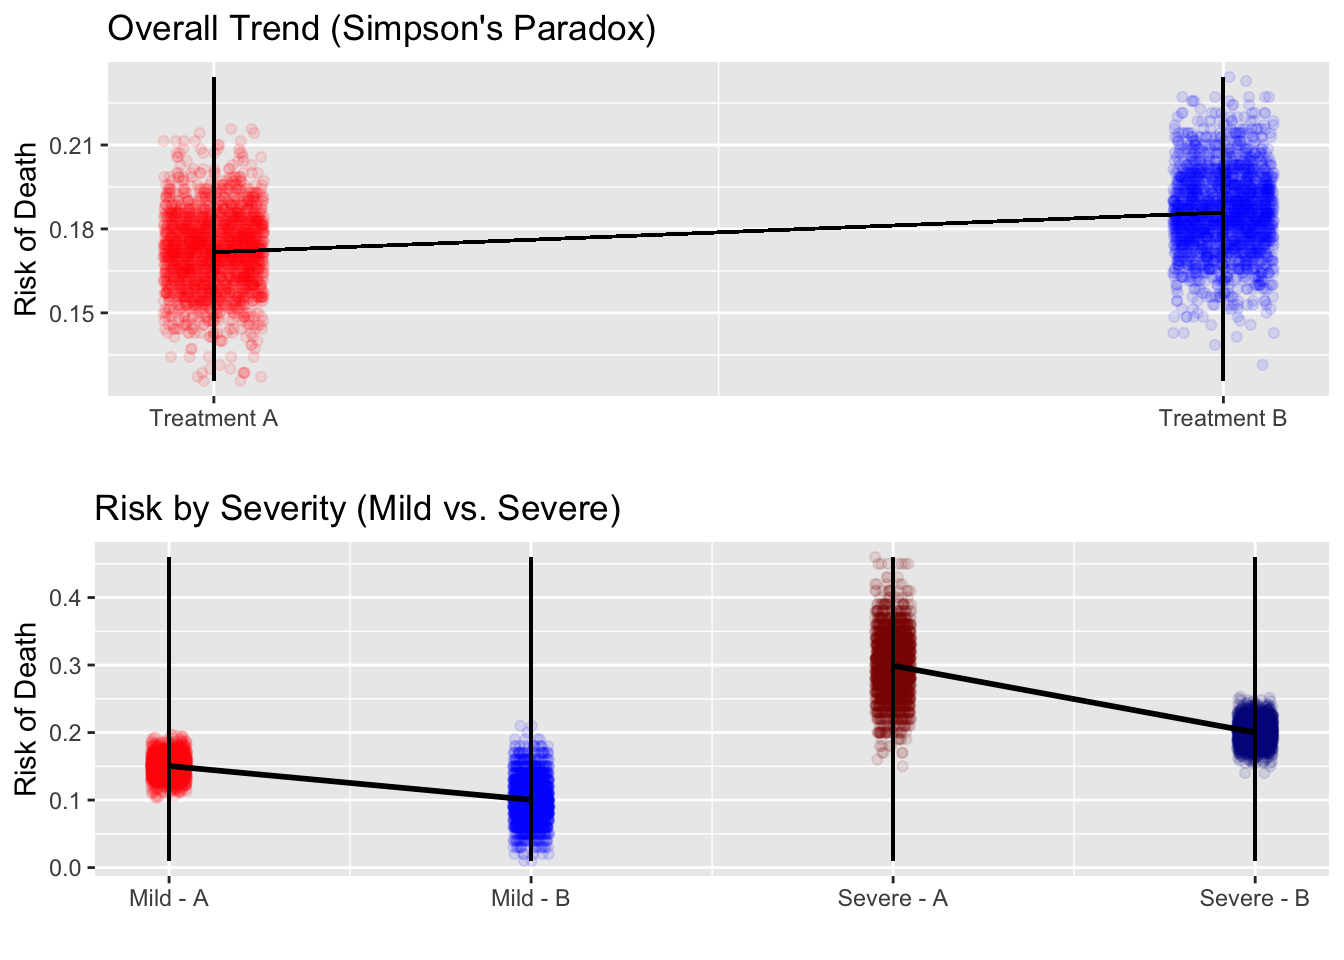
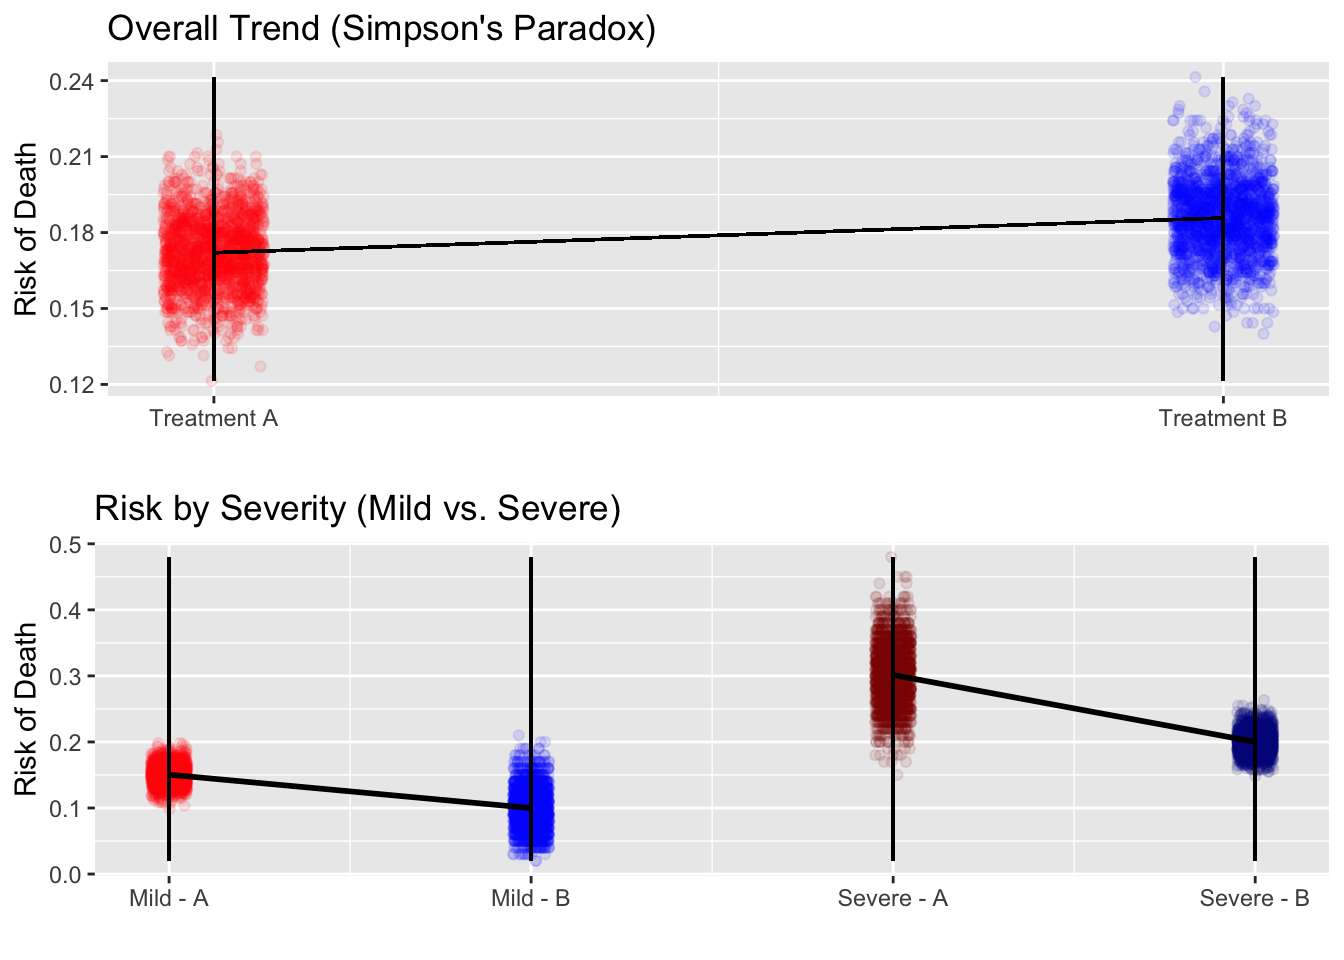
retry update week 1

diff --git a/docs/step-4-patients-who-benefit-most.html b/docs/step-4-patients-who-benefit-most.html
@@ -201,16 +201,16 @@ code span.wa { color: #60a0b0; font-weight: bold; font-style: italic; } /* Warni
 <div class="sourceCode" id="cb11"><pre class="sourceCode r"><code class="sourceCode r"><span id="cb11-1"><a href="step-4-patients-who-benefit-most.html#cb11-1" tabindex="-1"></a>top_beneficiaries <span class="ot">&lt;-</span> data[<span class="fu">order</span>(data<span class="sc">$</span>ite_estimate), ][<span class="dv">1</span><span class="sc">:</span><span class="dv">10</span>, ]</span>
 <span id="cb11-2"><a href="step-4-patients-who-benefit-most.html#cb11-2" tabindex="-1"></a>top_beneficiaries[, <span class="fu">c</span>(<span class="st">&quot;age&quot;</span>, <span class="st">&quot;bmi&quot;</span>, <span class="st">&quot;cholesterol&quot;</span>, <span class="st">&quot;ite_estimate&quot;</span>)]</span></code></pre></div>
 <pre><code>##           age      bmi cholesterol ite_estimate
-## 1555 76.37728 20.51302    127.1688    -77.56485
-## 1508 80.78369 16.67729    146.6654    -76.35245
-## 100  70.19573 27.63411    123.6492    -72.34472
-## 1776 75.48114 22.68249    158.4594    -67.60009
-## 1690 69.63065 29.21457    139.1923    -67.26547
-## 442  67.13147 18.51519    131.7753    -67.19966
-## 1317 73.94146 31.67962    154.6649    -66.97528
-## 569  60.17433 29.75284    111.9373    -65.83409
-## 1523 74.01398 34.02351    163.0765    -64.56364
-## 1433 57.23621 23.16994    111.2967    -63.28543</code></pre>
+## 933  68.70392 24.94060    105.3667    -78.89931
+## 624  75.08177 28.95060    146.2440    -73.05248
+## 1838 65.05552 22.61131    113.6955    -72.46795
+## 1290 69.72474 29.66964    140.9591    -69.25446
+## 330  64.09765 18.29511    121.9488    -68.68833
+## 1875 66.31409 20.19397    134.5065    -67.19455
+## 1378 75.11858 21.06509    164.4618    -67.00409
+## 203  71.89352 22.32944    155.7432    -66.47380
+## 1310 63.29630 24.28763    129.9629    -65.75818
+## 1401 67.65457 22.18315    145.2932    -65.35761</code></pre>
 
 <div id="explanation-of-simpsons-paradox-1" class="section level2 hasAnchor" number="9.1">
 <h2><span class="header-section-number">9.1</span> Explanation of Simpson’s paradox<a href="step-4-patients-who-benefit-most.html#explanation-of-simpsons-paradox-1" class="anchor-section" aria-label="Anchor link to header"></a></h2>
@@ -327,12 +327,12 @@ code span.wa { color: #60a0b0; font-weight: bold; font-style: italic; } /* Warni
 <span id="cb13-104"><a href="step-4-patients-who-benefit-most.html#cb13-104" tabindex="-1"></a>  <span class="fu">unique</span>(<span class="fu">predict</span>(model))</span>
 <span id="cb13-105"><a href="step-4-patients-who-benefit-most.html#cb13-105" tabindex="-1"></a>  })</span></code></pre></div>
 <pre><code>##     Treatment Mild_Avg Severe_Avg Total_Avg
-## 1 Treatment A     15 %     29.9 %    17.2 %
+## 1 Treatment A     15 %     30.1 %    17.2 %
 ## 2 Treatment B     10 %       20 %    18.6 %</code></pre>
 <pre><code>## `geom_smooth()` using formula = &#39;y ~ x&#39;
 ## `geom_smooth()` using formula = &#39;y ~ x&#39;</code></pre>
 <p><img src="Causal-Inference-Graduate_files/figure-html/unnamed-chunk-7-1.png" width="672" /></p>
-<pre><code>## [1] 0.1504608 0.1003000 0.2989700 0.2001183</code></pre>
+<pre><code>## [1] 0.1504608 0.0998800 0.3014050 0.2001417</code></pre>
 
 </div>
 </div>

diff --git a/docs/step-1-simulating-the-patient-data.html b/docs/step-1-simulating-the-patient-data.html
@@ -222,13 +222,13 @@ code span.wa { color: #60a0b0; font-weight: bold; font-style: italic; } /* Warni
 <span id="cb5-22"><a href="step-1-simulating-the-patient-data.html#cb5-22" tabindex="-1"></a>)</span>
 <span id="cb5-23"><a href="step-1-simulating-the-patient-data.html#cb5-23" tabindex="-1"></a></span>
 <span id="cb5-24"><a href="step-1-simulating-the-patient-data.html#cb5-24" tabindex="-1"></a><span class="fu">head</span>(data)</span></code></pre></div>
-<pre><code>##        age      bmi cholesterol treatment        y   true_ite
-## 1 27.79913 21.08359    196.7386         0 171.3027  -4.501344
-## 2 64.49886 28.82798    199.4085         1 119.6670 -43.772408
-## 3 43.15832 31.46654    252.1183         1 160.1532  -7.578537
-## 4 54.40227 19.95723    212.5914         1 137.6802 -29.739861
-## 5 51.26578 17.67842    207.0235         1 140.8901 -25.679836
-## 6 59.48266 25.55861    197.5780         1 115.6723 -44.641540</code></pre>
+<pre><code>##        age      bmi cholesterol treatment        y  true_ite
+## 1 65.16067 21.93431    213.5078         1 120.3656 -40.52287
+## 2 61.09386 25.43581    181.9000         1 109.1758 -48.60279
+## 3 35.78048 19.35002    170.3532         1 133.7077 -25.67280
+## 4 38.43755 27.59194    190.9766         1 142.4497 -22.54891
+## 5 48.43440 20.16129    234.7707         1 140.8164 -17.48518
+## 6 45.67944 30.67501    220.9603         1 159.5852 -20.01258</code></pre>
 <p>Next, I estimated treatment effects using regression. Since I can’t observe both Y(0) and Y(1) for any individual, I used separate regressions for treatment and control groups. I used the models to predict counter factual outcomes for all patients and to compute the estimated ITE as the difference between Y(1) and Y(0).</p>
 </div>
             </section>

diff --git a/docs/explanation-of-simpsons-paradox.html b/docs/explanation-of-simpsons-paradox.html
@@ -312,11 +312,11 @@ code span.wa { color: #60a0b0; font-weight: bold; font-style: italic; } /* Warni
 <span id="cb1-105"><a href="explanation-of-simpsons-paradox.html#cb1-105" tabindex="-1"></a>  })</span></code></pre></div>
 <pre><code>##     Treatment Mild_Avg Severe_Avg Total_Avg
 ## 1 Treatment A     15 %     29.9 %    17.1 %
-## 2 Treatment B    9.9 %       20 %    18.5 %</code></pre>
+## 2 Treatment B     10 %     20.1 %    18.6 %</code></pre>
 <pre><code>## `geom_smooth()` using formula = &#39;y ~ x&#39;
 ## `geom_smooth()` using formula = &#39;y ~ x&#39;</code></pre>
 <p><img src="Causal-Inference-Graduate_files/figure-html/unnamed-chunk-1-1.png" width="672" /></p>
-<pre><code>## [1] 0.1501392 0.0991950 0.2987400 0.1997933</code></pre>
+<pre><code>## [1] 0.1495667 0.1002400 0.2990550 0.2006575</code></pre>
 <div id="introduction-to-counterfactuals-and-potential-outcomes" class="section level2 hasAnchor" number="3.1">
 <h2><span class="header-section-number">3.1</span> 1.2 Introduction to Counterfactuals and Potential Outcomes<a href="explanation-of-simpsons-paradox.html#introduction-to-counterfactuals-and-potential-outcomes" class="anchor-section" aria-label="Anchor link to header"></a></h2>
 <p>At the heart of causal inference lies a simple yet powerful idea: counterfactuals — what would have happened if something else had occurred. To formalize this, the Potential Outcomes Framework defines two outcomes for each individual:</p>

diff --git a/docs/step-2-estimate-treatment-effects-using-regression.html b/docs/step-2-estimate-treatment-effects-using-regression.html
@@ -208,12 +208,12 @@ code span.wa { color: #60a0b0; font-weight: bold; font-style: italic; } /* Warni
 <span id="cb7-8"><a href="step-2-estimate-treatment-effects-using-regression.html#cb7-8" tabindex="-1"></a></span>
 <span id="cb7-9"><a href="step-2-estimate-treatment-effects-using-regression.html#cb7-9" tabindex="-1"></a><span class="fu">head</span>(data[<span class="fu">c</span>(<span class="st">&quot;ite_estimate&quot;</span>, <span class="st">&quot;y0_hat&quot;</span>, <span class="st">&quot;y1_hat&quot;</span>)])</span></code></pre></div>
 <pre><code>##   ite_estimate   y0_hat   y1_hat
-## 1    -9.750942 172.9902 163.2392
-## 2   -44.847942 155.9336 111.0857
-## 3    -8.607295 179.0821 170.4748
-## 4   -31.329882 161.8837 130.5538
-## 5   -29.909466 161.8117 131.9023
-## 6   -40.525084 157.4048 116.8797</code></pre>
+## 1    -41.77226 156.9241 115.1519
+## 2    -47.57070 154.2730 106.7023
+## 3    -24.91952 162.1784 137.2589
+## 4    -21.76877 168.0742 146.3054
+## 5    -18.03459 168.5680 150.5334
+## 6    -20.10625 171.4505 151.3442</code></pre>
 <p>Now, I plotted the true ITE vs the estimated ITE. Here, each point is a patient, and the red dashed line represents the ideal estimation. If the point fits well with the line, then the model is accurate.</p>
 </div>
             </section>
